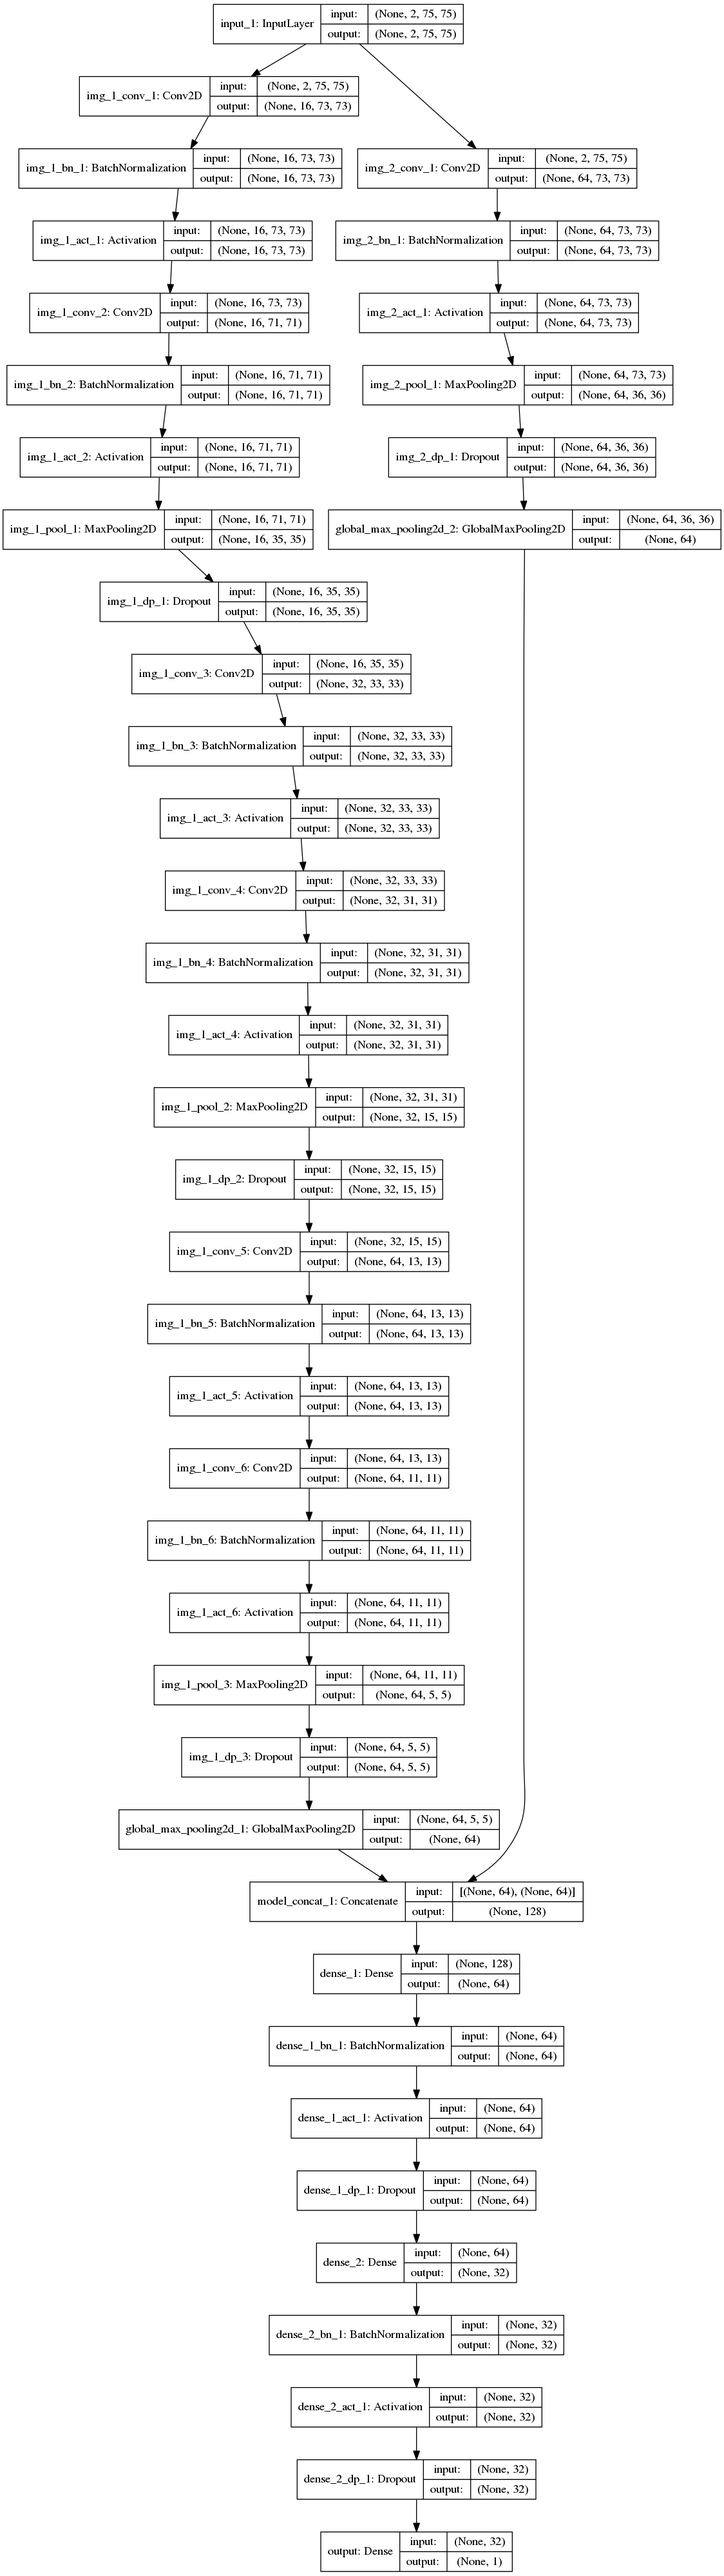
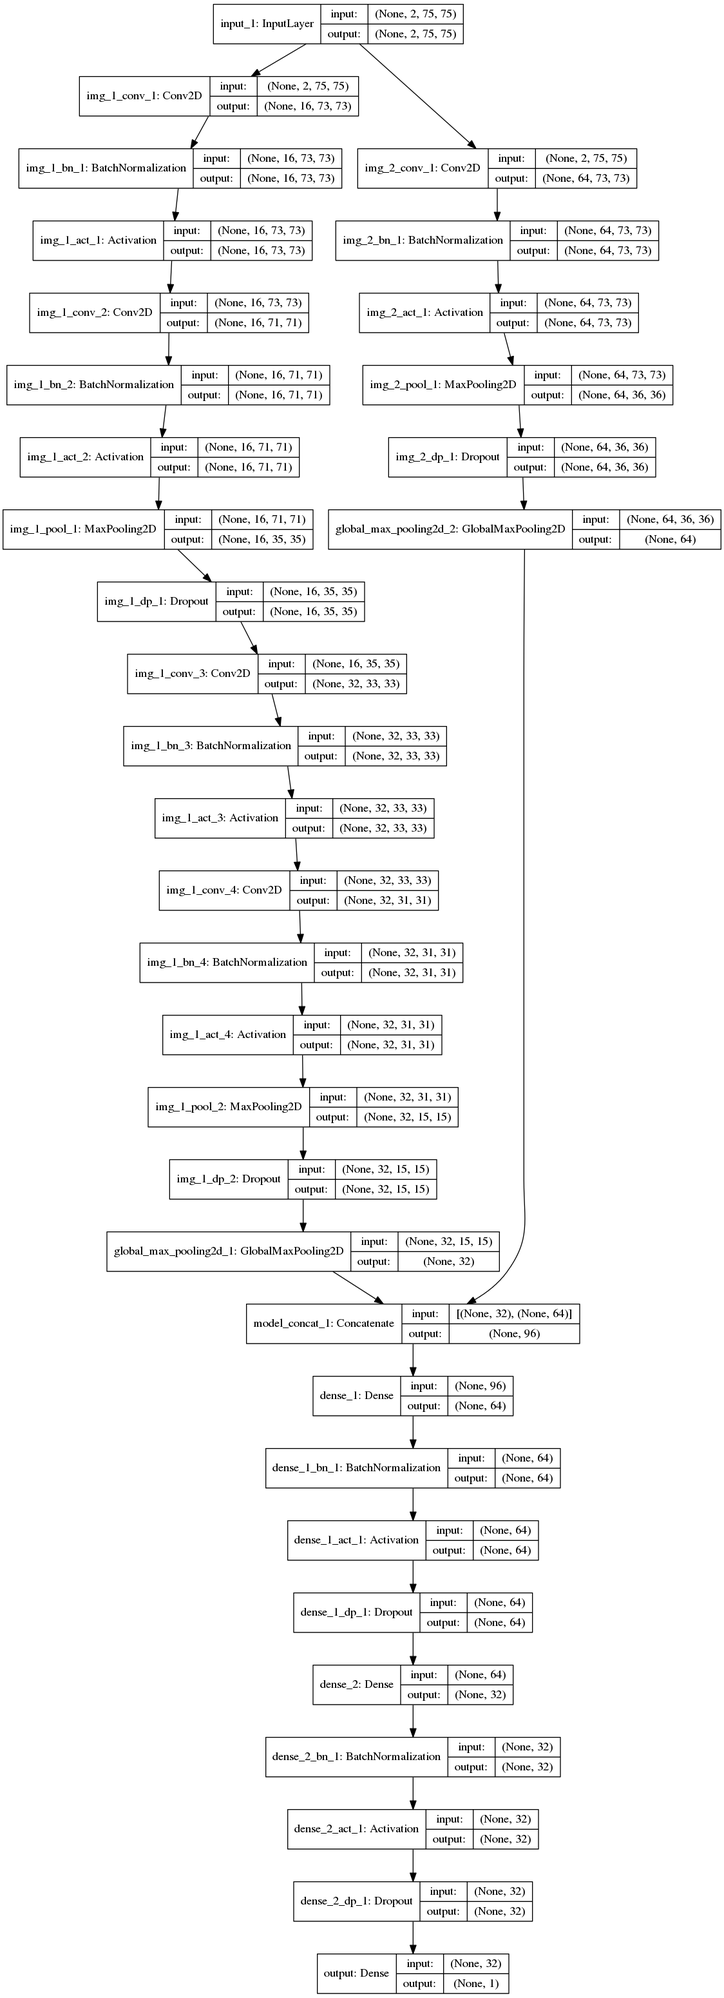
learning rate schedule is important

Changed region(s): [[0.0, 0.0, 0.9964, 1.0]]

diff --git a/models/model/simple.py b/models/model/simple.py
@@ -35,16 +35,16 @@ def model(weights_path=None):
     _img_1 = MaxPooling2D((2, 2), name="img_1_pool_2")(_img_1)
     _img_1 = Dropout(dp, name="img_1_dp_2")(_img_1)
 
-    _img_1 = Conv2D(64, (3, 3), name="img_1_conv_5")(_img_1)
-    _img_1 = BatchNormalization(axis=1, name="img_1_bn_5")(_img_1)
-    _img_1 = Activation(act, name="img_1_act_5")(_img_1)
-
-    _img_1 = Conv2D(64, (3, 3), name="img_1_conv_6")(_img_1)
-    _img_1 = BatchNormalization(axis=1, name="img_1_bn_6")(_img_1)
-    _img_1 = Activation(act, name="img_1_act_6")(_img_1)
-
-    _img_1 = MaxPooling2D((2, 2), name="img_1_pool_3")(_img_1)
-    _img_1 = Dropout(dp, name="img_1_dp_3")(_img_1)
+    # _img_1 = Conv2D(64, (3, 3), name="img_1_conv_5")(_img_1)
+    # _img_1 = BatchNormalization(axis=1, name="img_1_bn_5")(_img_1)
+    # _img_1 = Activation(act, name="img_1_act_5")(_img_1)
+    #
+    # _img_1 = Conv2D(64, (3, 3), name="img_1_conv_6")(_img_1)
+    # _img_1 = BatchNormalization(axis=1, name="img_1_bn_6")(_img_1)
+    # _img_1 = Activation(act, name="img_1_act_6")(_img_1)
+    #
+    # _img_1 = MaxPooling2D((2, 2), name="img_1_pool_3")(_img_1)
+    # _img_1 = Dropout(dp, name="img_1_dp_3")(_img_1)
 
     _img_1 = GlobalMaxPooling2D()(_img_1)
 

diff --git a/fit.py b/fit.py
@@ -71,7 +71,7 @@ model.compile(loss='binary_crossentropy',
 
 def schedule(epoch):
     lr = K.get_value(model.optimizer.lr)
-    return lr * (0.1 ** int(epoch / 100))
+    return lr * (0.1 ** int(epoch / 50))
 
 rm_cb = keras_cb.RemoteMonitor()
 ers_cb = keras_cb.EarlyStopping(patience=20)
